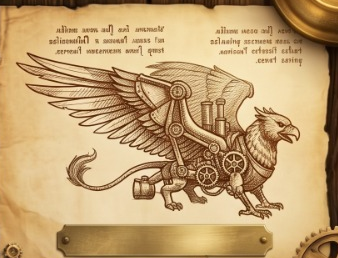
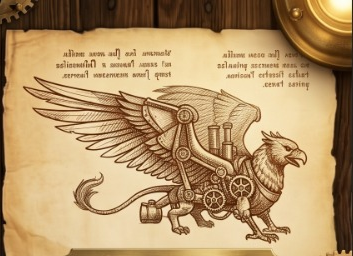
fix: place level placards below card images so artwork is not overlapped

diff --git a/assets/css/main.css b/assets/css/main.css
@@ -331,65 +331,83 @@ html, body {
 .level-grid {
   display: grid;
   grid-template-columns: repeat(2, 1fr);
-  gap: 10px;
+  gap: 12px;
   padding: 4px 0 16px 0;
 }
 
 .level-card {
   position: relative;
-  aspect-ratio: 331 / 253;
   width: 100%;
-  background-size: 100% 100%;
-  background-position: center;
-  background-repeat: no-repeat;
-  border-radius: 12px;
-  border: 1.5px solid rgba(148, 163, 184, 0.35);
-  cursor: pointer;
-  overflow: hidden;
-  box-shadow: 0 4px 12px rgba(15, 23, 42, 0.1);
-  transition: transform 0.12s ease, box-shadow 0.12s ease, filter 0.12s ease, border-color 0.12s ease;
   display: flex;
   flex-direction: column;
-  justify-content: flex-end;
-  padding: 0;
+  background: var(--card-bg, #ffffff);
+  border: 1.5px solid var(--border-color, #e2e8f0);
+  border-radius: 12px;
+  cursor: pointer;
+  overflow: hidden;
+  box-shadow: 0 4px 12px rgba(15, 23, 42, 0.08);
+  transition: transform 0.15s ease, box-shadow 0.15s ease, border-color 0.15s ease;
   box-sizing: border-box;
 }
 
 .dark-theme .level-card {
+  background: #1e293b;
   border-color: #334155;
-  box-shadow: 0 4px 16px rgba(0, 0, 0, 0.45);
+  box-shadow: 0 4px 16px rgba(0, 0, 0, 0.4);
 }
 
 .level-card:hover {
   transform: translateY(-2px);
-  filter: brightness(1.03);
-  box-shadow: 0 8px 20px rgba(0, 0, 0, 0.18);
   border-color: var(--primary-color, #22c55e);
+  box-shadow: 0 8px 20px rgba(0, 0, 0, 0.15);
 }
 
 .level-card:active {
   transform: translateY(1px);
-  filter: brightness(0.97);
+  filter: brightness(0.98);
 }
 
-/* Placard banner positioned at the bottom */
+.level-card-image-wrap {
+  width: 100%;
+  aspect-ratio: 353 / 256;
+  overflow: hidden;
+  display: flex;
+  align-items: center;
+  justify-content: center;
+  background: #f8fafc;
+}
+
+.dark-theme .level-card-image-wrap {
+  background: #0f172a;
+}
+
+.level-card-img {
+  width: 100%;
+  height: 100%;
+  object-fit: cover;
+  display: block;
+  transition: transform 0.2s ease;
+}
+
+.level-card:hover .level-card-img {
+  transform: scale(1.02);
+}
+
+/* Placard banner positioned UNDER the picture (no overlap) */
 .level-card-placard {
-  margin: 0 10% 4.5% 10%;
+  padding: 7px 6px;
   background: linear-gradient(180deg, #fef08a 0%, #f59e0b 50%, #b45309 100%);
-  border: 1.5px solid #78350f;
-  border-radius: 6px;
-  padding: 3px 6px;
+  border-top: 1.5px solid #78350f;
   text-align: center;
-  box-shadow: 0 2px 6px rgba(0, 0, 0, 0.4), inset 0 1px 1px rgba(255, 255, 255, 0.9), inset 0 -1px 2px rgba(120, 53, 15, 0.6);
   box-sizing: border-box;
   display: flex;
   align-items: center;
   justify-content: center;
-  min-height: 26px;
+  min-height: 32px;
 }
 
 .level-card-placard span {
-  font-size: 13px;
+  font-size: 12.5px;
   font-weight: 900;
   color: #451a03;
   line-height: 1.15;

diff --git a/frontend/assets/css/main.css b/frontend/assets/css/main.css
@@ -331,65 +331,83 @@ html, body {
 .level-grid {
   display: grid;
   grid-template-columns: repeat(2, 1fr);
-  gap: 10px;
+  gap: 12px;
   padding: 4px 0 16px 0;
 }
 
 .level-card {
   position: relative;
-  aspect-ratio: 331 / 253;
   width: 100%;
-  background-size: 100% 100%;
-  background-position: center;
-  background-repeat: no-repeat;
-  border-radius: 12px;
-  border: 1.5px solid rgba(148, 163, 184, 0.35);
-  cursor: pointer;
-  overflow: hidden;
-  box-shadow: 0 4px 12px rgba(15, 23, 42, 0.1);
-  transition: transform 0.12s ease, box-shadow 0.12s ease, filter 0.12s ease, border-color 0.12s ease;
   display: flex;
   flex-direction: column;
-  justify-content: flex-end;
-  padding: 0;
+  background: var(--card-bg, #ffffff);
+  border: 1.5px solid var(--border-color, #e2e8f0);
+  border-radius: 12px;
+  cursor: pointer;
+  overflow: hidden;
+  box-shadow: 0 4px 12px rgba(15, 23, 42, 0.08);
+  transition: transform 0.15s ease, box-shadow 0.15s ease, border-color 0.15s ease;
   box-sizing: border-box;
 }
 
 .dark-theme .level-card {
+  background: #1e293b;
   border-color: #334155;
-  box-shadow: 0 4px 16px rgba(0, 0, 0, 0.45);
+  box-shadow: 0 4px 16px rgba(0, 0, 0, 0.4);
 }
 
 .level-card:hover {
   transform: translateY(-2px);
-  filter: brightness(1.03);
-  box-shadow: 0 8px 20px rgba(0, 0, 0, 0.18);
   border-color: var(--primary-color, #22c55e);
+  box-shadow: 0 8px 20px rgba(0, 0, 0, 0.15);
 }
 
 .level-card:active {
   transform: translateY(1px);
-  filter: brightness(0.97);
+  filter: brightness(0.98);
 }
 
-/* Placard banner positioned at the bottom */
+.level-card-image-wrap {
+  width: 100%;
+  aspect-ratio: 353 / 256;
+  overflow: hidden;
+  display: flex;
+  align-items: center;
+  justify-content: center;
+  background: #f8fafc;
+}
+
+.dark-theme .level-card-image-wrap {
+  background: #0f172a;
+}
+
+.level-card-img {
+  width: 100%;
+  height: 100%;
+  object-fit: cover;
+  display: block;
+  transition: transform 0.2s ease;
+}
+
+.level-card:hover .level-card-img {
+  transform: scale(1.02);
+}
+
+/* Placard banner positioned UNDER the picture (no overlap) */
 .level-card-placard {
-  margin: 0 10% 4.5% 10%;
+  padding: 7px 6px;
   background: linear-gradient(180deg, #fef08a 0%, #f59e0b 50%, #b45309 100%);
-  border: 1.5px solid #78350f;
-  border-radius: 6px;
-  padding: 3px 6px;
+  border-top: 1.5px solid #78350f;
   text-align: center;
-  box-shadow: 0 2px 6px rgba(0, 0, 0, 0.4), inset 0 1px 1px rgba(255, 255, 255, 0.9), inset 0 -1px 2px rgba(120, 53, 15, 0.6);
   box-sizing: border-box;
   display: flex;
   align-items: center;
   justify-content: center;
-  min-height: 26px;
+  min-height: 32px;
 }
 
 .level-card-placard span {
-  font-size: 13px;
+  font-size: 12.5px;
   font-weight: 900;
   color: #451a03;
   line-height: 1.15;

diff --git a/frontend/index.html b/frontend/index.html
@@ -16,7 +16,7 @@
     <link rel="preconnect" href="https://fonts.gstatic.com" crossorigin />
     <link href="https://fonts.googleapis.com/css2?family=Plus+Jakarta+Sans:wght@500;600;700;800&display=swap" rel="stylesheet" />
     
-    <link rel="stylesheet" href="./assets/css/main.css?v=2.3" />
+    <link rel="stylesheet" href="./assets/css/main.css?v=2.4" />
 
     <script>
       // Global splash screen dismissal
@@ -90,6 +90,6 @@
       }
     </style>
 
-    <script type="module" src="./app.js?v=2.2"></script>
+    <script type="module" src="./app.js?v=2.4"></script>
   </body>
 </html>

diff --git a/index.html b/index.html
@@ -16,7 +16,7 @@
     <link rel="preconnect" href="https://fonts.gstatic.com" crossorigin />
     <link href="https://fonts.googleapis.com/css2?family=Plus+Jakarta+Sans:wght@500;600;700;800&display=swap" rel="stylesheet" />
     
-    <link rel="stylesheet" href="./assets/css/main.css?v=2.3" />
+    <link rel="stylesheet" href="./assets/css/main.css?v=2.4" />
 
     <script>
       // Global splash screen dismissal
@@ -90,6 +90,6 @@
       }
     </style>
 
-    <script type="module" src="./app.js?v=2.2"></script>
+    <script type="module" src="./app.js?v=2.4"></script>
   </body>
 </html>

diff --git a/components/LevelGrid.js b/components/LevelGrid.js
@@ -11,7 +11,10 @@ export function renderLevelGrid(catalog) {
   ];
 
   const cardsHtml = cards.map(c => `
-    <div class="level-card" data-level-id="${c.id}" style="background-image: url('${c.bg}');">
+    <div class="level-card" data-level-id="${c.id}">
+      <div class="level-card-image-wrap">
+        <img src="${c.bg}" alt="${c.title}" class="level-card-img" />
+      </div>
       <div class="level-card-placard">
         <span>${c.title}</span>
       </div>

diff --git a/frontend/components/LevelGrid.js b/frontend/components/LevelGrid.js
@@ -11,7 +11,10 @@ export function renderLevelGrid(catalog) {
   ];
 
   const cardsHtml = cards.map(c => `
-    <div class="level-card" data-level-id="${c.id}" style="background-image: url('${c.bg}');">
+    <div class="level-card" data-level-id="${c.id}">
+      <div class="level-card-image-wrap">
+        <img src="${c.bg}" alt="${c.title}" class="level-card-img" />
+      </div>
       <div class="level-card-placard">
         <span>${c.title}</span>
       </div>
